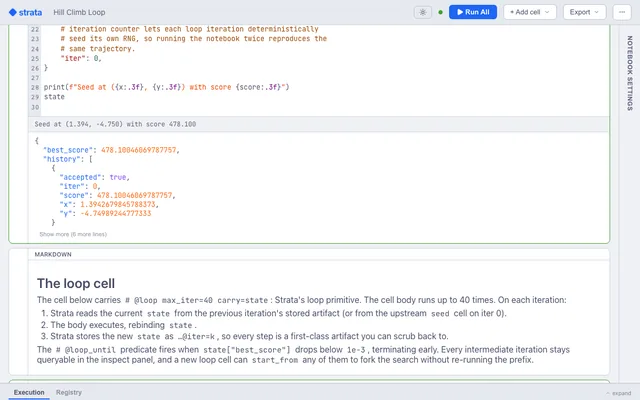
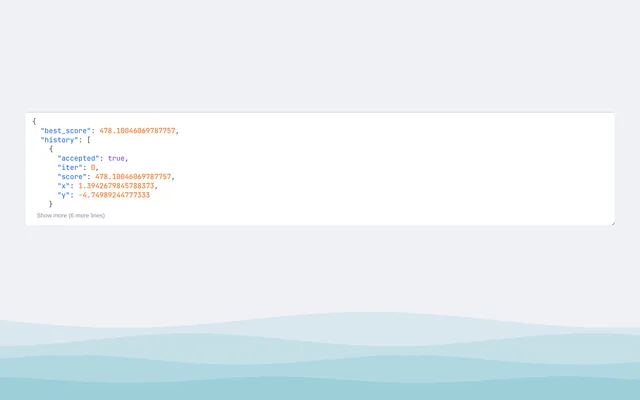
docs: example cards show each example's result (#1680)
* docs: example cards show each example's result, not its editor

The capture shoots the example's chart, table or report alone and sets it
over a band in the example's own color, on the docs theme's background. An
example with no output shows its main cell's source.

Claude-Session: https://claude.ai/code/session_0153tGTDWfzB9aBrCNiSAYQ5

* docs: pin the focus cell by id; render the orders report as Markdown

The editor draws only the lines in view, so once the output is scrolled to,
a text filter on a long cell's first lines can stop matching. The orders
report ended on its raw Markdown string; it now renders as tables.

Claude-Session: https://claude.ai/code/session_0153tGTDWfzB9aBrCNiSAYQ5

* docs: shoot a tall output from its top, with the editor's chrome hidden

A plot taller than the viewport slid under the sticky header when centred.
library_cells' card shows its library cell, not the failure it demonstrates.

Claude-Session: https://claude.ai/code/session_0153tGTDWfzB9aBrCNiSAYQ5

* docs: a plot keeps up to a square crop, within the scrolling pane

Claude-Session: https://claude.ai/code/session_0153tGTDWfzB9aBrCNiSAYQ5

* docs: recapture every key-free example's card

Claude-Session: https://claude.ai/code/session_0153tGTDWfzB9aBrCNiSAYQ5

* docs: drop the capture's first scroll, which the shot's own replaced

Claude-Session: https://claude.ai/code/session_0153tGTDWfzB9aBrCNiSAYQ5

* docs: alt texts describe the new cards
[…]

diff --git a/scripts/capture_docs_shots.py b/scripts/capture_docs_shots.py
@@ -781,8 +781,8 @@ THUMB_WIDTH = 640
 class ExampleShot:
     """How to photograph one example.
 
-    ``focus`` is text in the cell to frame; without it the browser centres the
-    first plot, else table, else markdown. ``needs`` names what a run requires
+    ``focus`` is text in the cell whose output to take; without it the browser
+    takes the first plot, else table, else markdown. ``needs`` names what a run requires
     beyond the notebook's own venv (keys of ``NEEDS``). ``in_session`` runs the
     cells in the server's session rather than with ``strata run``, for a notebook
     whose results a reopened session does not keep (a write SQL cell's).
@@ -821,18 +821,18 @@ NEEDS = {
 # Every notebook under examples/ needs an entry, so a new one cannot ship
 # without a card image by accident.
 EXAMPLE_SHOTS = {
-    "agent_demo": ExampleShot(),
+    "agent_demo": ExampleShot(focus="The expensive step"),
     "arxiv_classifier": ExampleShot(needs=("llm",)),
     "caching": ExampleShot(),
     "data_viewer": ExampleShot(),
     "each_pipeline": ExampleShot(needs=("docker",)),
     "iris_classification": ExampleShot(),
     "keeling_curve": ExampleShot(),
-    "library_cells": ExampleShot(),
+    "library_cells": ExampleShot(focus="Pure module cell"),
     "loop_hill_climb": ExampleShot(),
-    "markdown_showcase": ExampleShot(focus="Two surfaces are tested"),
+    "markdown_showcase": ExampleShot(focus="Templated report from a DataFrame"),
     "model_variants": ExampleShot(),
-    "model_variants_sweep": ExampleShot(),
+    "model_variants_sweep": ExampleShot(focus="every variant ran"),
     "news_alpha_trader": ExampleShot(needs=("llm", "alpaca")),
     "pandas_basics": ExampleShot(),
     "r_lm_vs_sklearn": ExampleShot(needs=("r",)),
@@ -841,7 +841,7 @@ EXAMPLE_SHOTS = {
     "s3_mount": ExampleShot(),
     "sql_orders_report": ExampleShot(focus="Combine the two SQL results", in_session=True),
     "titanic_ml": ExampleShot(),
-    "widget_playground": ExampleShot(focus="Controls"),
+    "widget_playground": ExampleShot(),
 }
 
 
@@ -905,13 +905,65 @@ def _copy_tracked(src: Path, dest: Path) -> None:
         shutil.copy2(file, target)
 
 
-def _to_thumb(png: Path, dest: Path) -> None:
+# A card is the example's result on the notebook's own background, above a band of
+# layered ground (strata) in one accent per example, so a row of cards reads as a set.
+CARD_BACKGROUND = {"light": (239, 241, 245), "dark": (17, 17, 27)}
+CARD_ACCENTS = [
+    (30, 102, 245),
+    (232, 89, 12),
+    (112, 72, 232),
+    (12, 166, 120),
+    (240, 140, 0),
+    (16, 152, 173),
+]
+THUMB_HEIGHT = THUMB_WIDTH * 10 // 16
+
+
+def _strata_band(width: int, height: int, top: int, accent, background):
+    """Four wavy layers from *top* down, each a deeper tint of *accent*."""
+    import math
+
+    from PIL import Image, ImageDraw
+
+    band = Image.new("RGB", (width, height), background)
+    draw = ImageDraw.Draw(band)
+    depth = height - top
+    for layer in range(4):
+        tint = 0.10 + 0.09 * layer
+        color = tuple(round(b + (a - b) * tint) for a, b in zip(accent, background, strict=True))
+        base = top + depth * layer / 4
+        amp = depth * (0.10 - 0.02 * layer)
+        freq = 1.3 + 0.3 * layer
+        edge = [
+            (x, base + amp * math.sin(x / width * 2 * math.pi * freq + layer * 1.7))
+            for x in range(0, width + 8, 8)
+        ]
+        draw.polygon([(0, height), *edge, (width, height)], fill=color)
+    return band
+
+
+def _to_thumb(png: Path, dest: Path, name: str, theme: str) -> None:
+    """Set the captured result in its card: centred above the band, never cropped."""
+    import zlib
+
     from PIL import Image
 
+    scale = 2
+    width, height = THUMB_WIDTH * scale, THUMB_HEIGHT * scale
+    background = CARD_BACKGROUND[theme]
+    accent = CARD_ACCENTS[zlib.crc32(name.encode()) % len(CARD_ACCENTS)]
+    card = _strata_band(width, height, round(height * 0.80), accent, background)
+    pad = round(width * 0.04)
+    box = (width - 2 * pad, round(height * 0.78) - pad)
     with Image.open(png) as image:
-        height = round(image.height * THUMB_WIDTH / image.width)
-        resized = image.convert("RGB").resize((THUMB_WIDTH, height), Image.Resampling.LANCZOS)
-        resized.save(dest, "WEBP", quality=82, method=6)
+        result = image.convert("RGBA")
+        result.thumbnail(box, Image.Resampling.LANCZOS)
+        left = (width - result.width) // 2
+        top = pad + (box[1] - result.height) // 2
+        card.paste(result, (left, top), result)
+    card.resize((THUMB_WIDTH, THUMB_HEIGHT), Image.Resampling.LANCZOS).save(
+        dest, "WEBP", quality=86, method=6
+    )
 
 
 def capture_examples(work_dir: Path, names: list[str] | None) -> list[Path]:
@@ -1004,7 +1056,8 @@ def capture_examples(work_dir: Path, names: list[str] | None) -> list[Path]:
     EXAMPLE_THUMBS.mkdir(parents=True, exist_ok=True)
     for png in sorted(raw.glob("*.png")):
         dest = EXAMPLE_THUMBS / f"{png.stem}.webp"
-        _to_thumb(png, dest)
+        name, _, theme = png.stem.rpartition("-")
+        _to_thumb(png, dest, name, theme)
         written.append(dest)
 
     for name, reason in skipped.items():

diff --git a/tests/test_docs_examples_hook.py b/tests/test_docs_examples_hook.py
@@ -23,7 +23,7 @@ def test_the_screenshot_goes_under_the_title_in_both_themes(tmp_path: Path) -> N
     assert lines[0] == "# Data Viewer"
     assert lines[2].endswith("(../assets/examples/data_viewer-light.webp#only-light)")
     assert lines[3].endswith("(../assets/examples/data_viewer-dark.webp#only-dark)")
-    assert lines[2].startswith("![The Data Viewer notebook in the editor after a run]")
+    assert lines[2].startswith("![Data Viewer: what a run of the notebook shows]")
     assert lines[4:] == ["", "A two-cell notebook.", ""]
 
 

diff --git a/docs_hooks/export_examples.py b/docs_hooks/export_examples.py
@@ -73,7 +73,7 @@ def with_thumbnail(rendered: str, name: str, thumbs_dir: Path) -> str:
     if title_at is None:
         return rendered
     title = lines[title_at].removeprefix("# ").strip()
-    alt = f"The {title} notebook in the editor after a run"
+    alt = f"{title}: what a run of the notebook shows"
     images = [
         f"![{alt}](../assets/examples/{name}-{theme}.webp#only-{theme})"
         for theme in ("light", "dark")

diff --git a/examples/sql_orders_report/cells/report.py b/examples/sql_orders_report/cells/report.py
@@ -36,4 +36,4 @@ for _, row in category_summary.to_pandas().iterrows():
 
 report = "\n".join(lines)
 print(report)
-report
+Markdown(report)

diff --git a/docs/notebook/examples.md b/docs/notebook/examples.md
@@ -1,8 +1,8 @@
 # Example gallery
 
 Every notebook under `examples/` in the repo demonstrates a specific
-Strata capability. A card's picture is that notebook in the editor
-after a real run. Click through for its cell sources and its README,
+Strata capability. A card's picture is what that notebook makes, taken
+from a real run. Click through for its cell sources and its README,
 rendered into this site without cloning the repo.
 
 To run the examples, start the server on the repo's `examples/` directory
@@ -22,13 +22,13 @@ want under your storage root instead:
 
 <div class="grid cards" markdown>
 
--   [![The caching tutorial: a bar chart of revenue by region under the cell that plots it.](../assets/examples/caching-light.webp#only-light)![The caching tutorial: a bar chart of revenue by region under the cell that plots it.](../assets/examples/caching-dark.webp#only-dark)](../examples/caching.md)
+-   [![The caching tutorial: a bar chart of revenue by region.](../assets/examples/caching-light.webp#only-light)![The caching tutorial: a bar chart of revenue by region.](../assets/examples/caching-dark.webp#only-dark)](../examples/caching.md)
 
     **[caching](../examples/caching.md)**: a two-minute tutorial on what the
     cache saves and what an edit runs again. `strata tutorial caching` opens
     a copy.
 
--   [![The Keeling curve notebook: the plotting cell's code above CO₂ at Mauna Loa rising from about 315 to 430 ppm since 1958, beside the average year's cycle.](../assets/examples/keeling_curve-light.webp#only-light)![The Keeling curve notebook: the plotting cell's code above CO₂ at Mauna Loa rising from about 315 to 430 ppm since 1958, beside the average year's cycle.](../assets/examples/keeling_curve-dark.webp#only-dark)](../examples/keeling_curve.md)
+-   [![The Keeling curve: CO₂ at Mauna Loa rising from about 315 to 427 ppm since 1958, beside the average year's cycle.](../assets/examples/keeling_curve-light.webp#only-light)![The Keeling curve: CO₂ at Mauna Loa rising from about 315 to 427 ppm since 1958, beside the average year's cycle.](../assets/examples/keeling_curve-dark.webp#only-dark)](../examples/keeling_curve.md)
 
     **[keeling_curve](../examples/keeling_curve.md)**: NOAA's Mauna Loa
     record, downloaded with `# @fetch`, the curve and its yearly cycle, then a
@@ -58,7 +58,7 @@ want under your storage root instead:
     the inline preview, in the interactive viewer. Page through and sort the
     full cached artifact.
 
--   [![Agent demo: the notebook's introduction above the cell that trains a random forest.](../assets/examples/agent_demo-light.webp#only-light)![Agent demo: the notebook's introduction above the cell that trains a random forest.](../assets/examples/agent_demo-dark.webp#only-dark)](../examples/agent_demo.md)
+-   [![Agent demo: the cell that trains a random forest, the step the cache keeps.](../assets/examples/agent_demo-light.webp#only-light)![Agent demo: the cell that trains a random forest, the step the cache keeps.](../assets/examples/agent_demo-dark.webp#only-dark)](../examples/agent_demo.md)
 
     **[agent_demo](../examples/agent_demo.md)**: the notebook a coding agent
     builds live in the `strata agent` demo. The expensive training cell stays
@@ -77,7 +77,7 @@ want under your storage root instead:
     one DAG slot. Switch tabs and the downstream cells run again; the other
     variants stay cached.
 
--   [![Model variants sweep: three variant cells and the cell that compares their accuracy.](../assets/examples/model_variants_sweep-light.webp#only-light)![Model variants sweep: three variant cells and the cell that compares their accuracy.](../assets/examples/model_variants_sweep-dark.webp#only-dark)](../examples/model_variants_sweep.md)
+-   [![Model variants sweep: the cell that compares every variant's accuracy, and what it printed.](../assets/examples/model_variants_sweep-light.webp#only-light)![Model variants sweep: the cell that compares every variant's accuracy, and what it printed.](../assets/examples/model_variants_sweep-dark.webp#only-dark)](../examples/model_variants_sweep.md)
 
     **[model_variants_sweep](../examples/model_variants_sweep.md)**: sweep
     mode. Every variant runs and one downstream cell compares them as a
@@ -117,7 +117,7 @@ environment and the Docker image carry both.
 
 <div class="grid cards" markdown>
 
--   [![SQL orders report: the Python cell that combines two SQL results, above the report it prints.](../assets/examples/sql_orders_report-light.webp#only-light)![SQL orders report: the Python cell that combines two SQL results, above the report it prints.](../assets/examples/sql_orders_report-dark.webp#only-dark)](../examples/sql_orders_report.md)
+-   [![SQL orders report: the top five orders above $50 and revenue by product category.](../assets/examples/sql_orders_report-light.webp#only-light)![SQL orders report: the top five orders above $50 and revenue by product category.](../assets/examples/sql_orders_report-dark.webp#only-dark)](../examples/sql_orders_report.md)
 
     **[sql_orders_report](../examples/sql_orders_report.md)**: named
     connections, bind parameters from a Python cell upstream, and
@@ -129,18 +129,18 @@ environment and the Docker image carry both.
 
 <div class="grid cards" markdown>
 
--   [![Hill climb loop: the loop's final state as JSON, above the markdown that explains the loop cell.](../assets/examples/loop_hill_climb-light.webp#only-light)![Hill climb loop: the loop's final state as JSON, above the markdown that explains the loop cell.](../assets/examples/loop_hill_climb-dark.webp#only-dark)](../examples/loop_hill_climb.md)
+-   [![Hill climb loop: the loop's final state as JSON, with the best score and each step.](../assets/examples/loop_hill_climb-light.webp#only-light)![Hill climb loop: the loop's final state as JSON, with the best score and each step.](../assets/examples/loop_hill_climb-dark.webp#only-dark)](../examples/loop_hill_climb.md)
 
     **[loop_hill_climb](../examples/loop_hill_climb.md)**: `# @loop` with
     carried state and an early-termination predicate.
 
--   [![Widget playground: a slider, number and dropdown above the table they drive.](../assets/examples/widget_playground-light.webp#only-light)![Widget playground: a slider, number and dropdown above the table they drive.](../assets/examples/widget_playground-dark.webp#only-dark)](../examples/widget_playground.md)
+-   [![Widget playground: the plot the slider and dropdown drive, titled with their values.](../assets/examples/widget_playground-light.webp#only-light)![Widget playground: the plot the slider and dropdown drive, titled with their values.](../assets/examples/widget_playground-dark.webp#only-dark)](../examples/widget_playground.md)
 
     **[widget_playground](../examples/widget_playground.md)**: a widget cell
     (slider, number, dropdown) driving a downstream DataFrame and plot, with
     `# @live` recomputing on every change.
 
--   [![Library cells: helper functions defined in one cell and called from others.](../assets/examples/library_cells-light.webp#only-light)![Library cells: helper functions defined in one cell and called from others.](../assets/examples/library_cells-dark.webp#only-dark)](../examples/library_cells.md)
+-   [![Library cells: the cell that defines area and perimeter for other cells to call.](../assets/examples/library_cells-light.webp#only-light)![Library cells: the cell that defines area and perimeter for other cells to call.](../assets/examples/library_cells-dark.webp#only-dark)](../examples/library_cells.md)
 
     **[library_cells](../examples/library_cells.md)**: `def` and `class`
     shared across cells through the synthetic-module slicing path, and the
@@ -169,7 +169,7 @@ environment and the Docker image carry both.
 
 <div class="grid cards" markdown>
 
--   [![Markdown showcase: the notebook's rendered introduction.](../assets/examples/markdown_showcase-light.webp#only-light)![Markdown showcase: the notebook's rendered introduction.](../assets/examples/markdown_showcase-dark.webp#only-dark)](../examples/markdown_showcase.md)
+-   [![Markdown showcase: a leaderboard report rendered as Markdown from a DataFrame.](../assets/examples/markdown_showcase-light.webp#only-light)![Markdown showcase: a leaderboard report rendered as Markdown from a DataFrame.](../assets/examples/markdown_showcase-dark.webp#only-dark)](../examples/markdown_showcase.md)
 
     **[markdown_showcase](../examples/markdown_showcase.md)**: every
     markdown rendering path: headings, lists, tables, code blocks, the

diff --git a/README.md b/README.md
@@ -127,14 +127,14 @@ machine. [How Strata compares →](https://bearingresearch.com/strata/latest/not
 <td width="33%" valign="top">
 <a href="https://bearingresearch.com/strata/latest/examples/caching/"><picture>
 <source media="(prefers-color-scheme: dark)" srcset="https://raw.githubusercontent.com/bearing-research/strata/main/docs/assets/examples/caching-dark.webp">
-<img alt="A bar chart of revenue by region under the cell that plots it." src="https://raw.githubusercontent.com/bearing-research/strata/main/docs/assets/examples/caching-light.webp">
+<img alt="A bar chart of revenue by region." src="https://raw.githubusercontent.com/bearing-research/strata/main/docs/assets/examples/caching-light.webp">
 </picture></a>
 <br><b><a href="https://bearingresearch.com/strata/latest/examples/caching/">caching</a></b><br>The two-minute tutorial: what the cache saves, and what an edit runs again
 </td>
 <td width="33%" valign="top">
 <a href="https://bearingresearch.com/strata/latest/examples/keeling_curve/"><picture>
 <source media="(prefers-color-scheme: dark)" srcset="https://raw.githubusercontent.com/bearing-research/strata/main/docs/assets/examples/keeling_curve-dark.webp">
-<img alt="The Keeling curve notebook: the plotting cell's code above CO₂ at Mauna Loa rising from about 315 to 430 ppm since 1958, beside the average year's cycle." src="https://raw.githubusercontent.com/bearing-research/strata/main/docs/assets/examples/keeling_curve-light.webp">
+<img alt="CO₂ at Mauna Loa rising from about 315 to 427 ppm since 1958, beside the average year's cycle." src="https://raw.githubusercontent.com/bearing-research/strata/main/docs/assets/examples/keeling_curve-light.webp">
 </picture></a>
 <br><b><a href="https://bearingresearch.com/strata/latest/examples/keeling_curve/">keeling_curve</a></b><br>NOAA's CO₂ record, and a published figure that shows its sources
 </td>
@@ -157,14 +157,14 @@ machine. [How Strata compares →](https://bearingresearch.com/strata/latest/not
 <td width="33%" valign="top">
 <a href="https://bearingresearch.com/strata/latest/examples/sql_orders_report/"><picture>
 <source media="(prefers-color-scheme: dark)" srcset="https://raw.githubusercontent.com/bearing-research/strata/main/docs/assets/examples/sql_orders_report-dark.webp">
-<img alt="The Python cell that combines two SQL results, above the report it prints." src="https://raw.githubusercontent.com/bearing-research/strata/main/docs/assets/examples/sql_orders_report-light.webp">
+<img alt="The top five orders above $50 and revenue by product category." src="https://raw.githubusercontent.com/bearing-research/strata/main/docs/assets/examples/sql_orders_report-light.webp">
 </picture></a>
 <br><b><a href="https://bearingresearch.com/strata/latest/examples/sql_orders_report/">sql_orders_report</a></b><br>SQL, Python and markdown cells in one graph
 </td>
 <td width="33%" valign="top">
 <a href="https://bearingresearch.com/strata/latest/examples/widget_playground/"><picture>
 <source media="(prefers-color-scheme: dark)" srcset="https://raw.githubusercontent.com/bearing-research/strata/main/docs/assets/examples/widget_playground-dark.webp">
-<img alt="A slider, number and dropdown above the table they drive." src="https://raw.githubusercontent.com/bearing-research/strata/main/docs/assets/examples/widget_playground-light.webp">
+<img alt="The plot a slider and dropdown drive, titled with their values." src="https://raw.githubusercontent.com/bearing-research/strata/main/docs/assets/examples/widget_playground-light.webp">
 </picture></a>
 <br><b><a href="https://bearingresearch.com/strata/latest/examples/widget_playground/">widget_playground</a></b><br>Controls that drive downstream cells, live
 </td>

diff --git a/docs/changelog.md b/docs/changelog.md
@@ -399,6 +399,11 @@ The authoritative copy of this file lives at [`CHANGELOG.md`](https://github.com
 
 ### Changed
 
+- **The gallery's cards show each example's result, not its editor.** A card's picture
+  is the example's chart, table or report on the docs theme, over a band in the
+  example's own color; an example with no output shows its main cell's source.
+  `scripts/capture_docs_shots.py --only examples` draws them.
+
 - **Strata installs and runs from pipx, pip and conda, not only `uv tool install`.**
   `strata-notebook` depends on uv (0.12 or 0.13) and runs that uv for every notebook
   environment, whatever is on `PATH`; `STRATA_UV` names another. The startup guard no

diff --git a/CHANGELOG.md b/CHANGELOG.md
@@ -397,6 +397,11 @@ exhaustive commit history.
 
 ### Changed
 
+- **The gallery's cards show each example's result, not its editor.** A card's picture
+  is the example's chart, table or report on the docs theme, over a band in the
+  example's own color; an example with no output shows its main cell's source.
+  `scripts/capture_docs_shots.py --only examples` draws them.
+
 - **Strata installs and runs from pipx, pip and conda, not only `uv tool install`.**
   `strata-notebook` depends on uv (0.12 or 0.13) and runs that uv for every notebook
   environment, whatever is on `PATH`; `STRATA_UV` names another. The startup guard no
